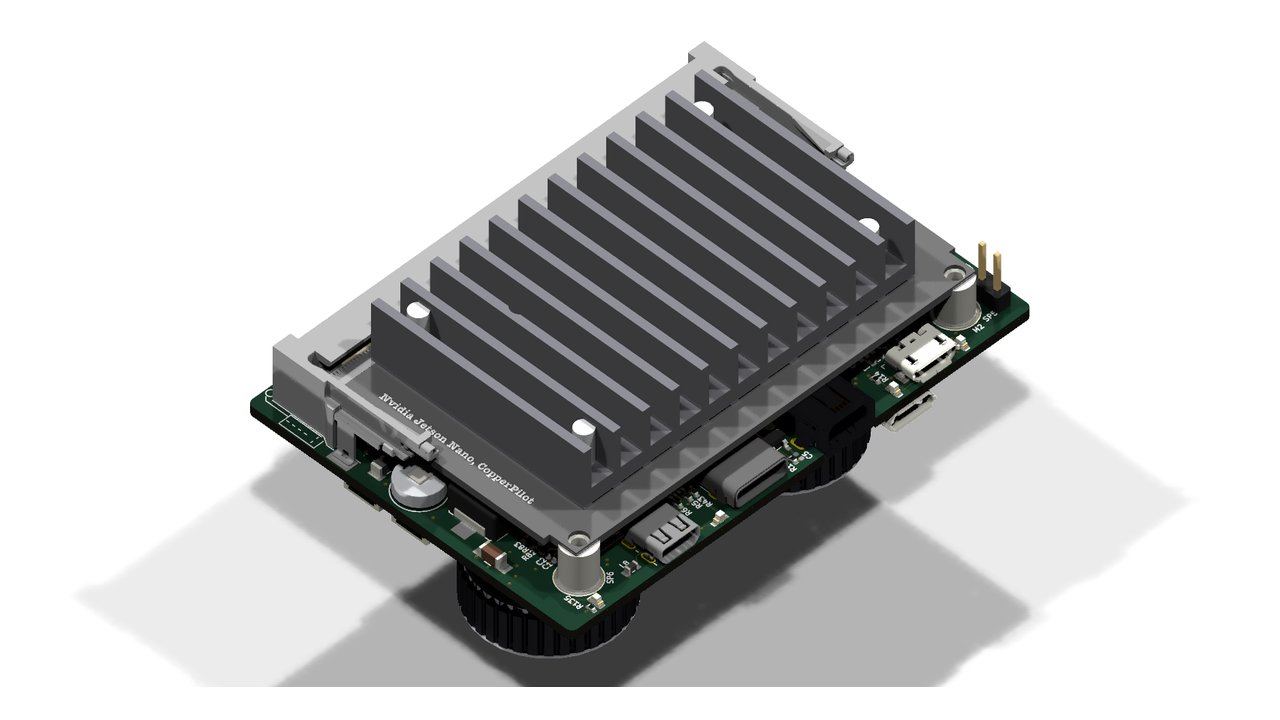
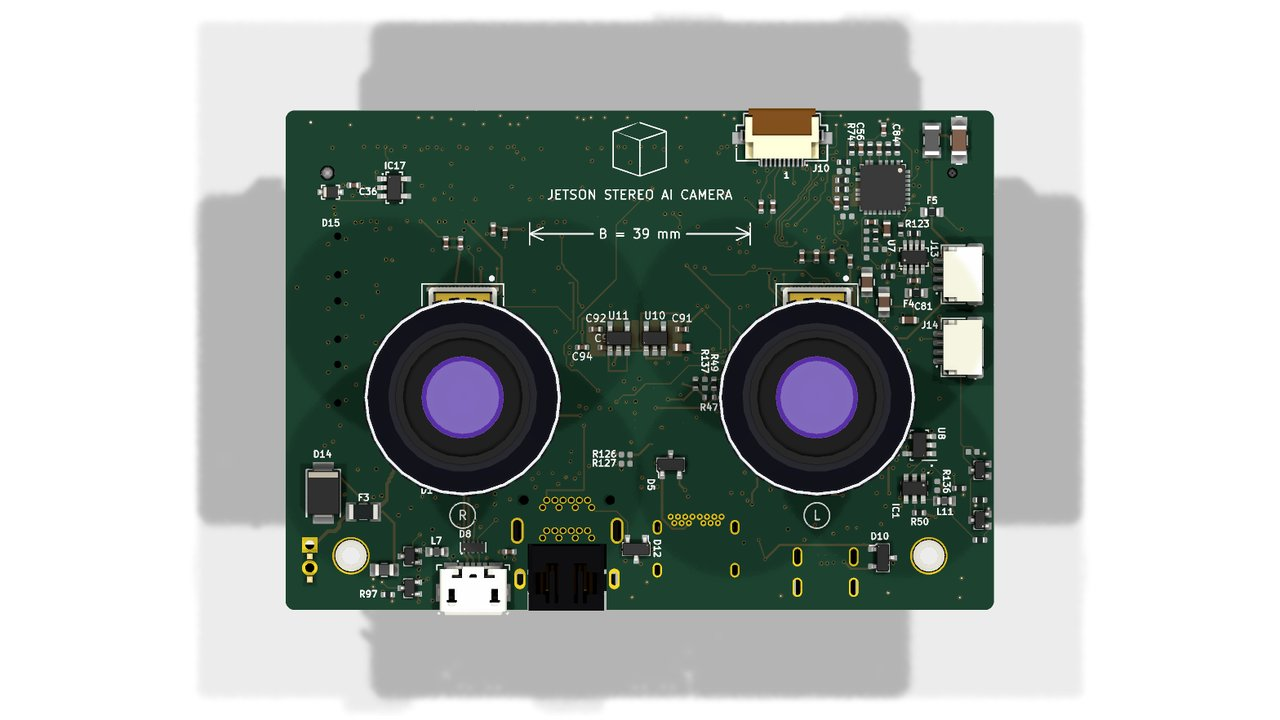
Use exploded-case GIF and camera-side Jetson render
Show the retro handheld's case explosion animation, padded to 16:9 in its
own background color, and the Jetson board's camera side.

diff --git a/profile/README.md b/profile/README.md
@@ -44,13 +44,13 @@ Real boards, not demos. Clone them, open them in KiCad, send them to the fab.
   </tr>
   <tr>
     <td width="33%" valign="top">
-      <a href="https://github.com/CopperPilot/Jetson-AI-Cam-CopperPilot"><img src="https://raw.githubusercontent.com/CopperPilot/.github/main/profile/assets/oss-jetson-ai-camera.jpg" alt="Jetson stereo AI camera carrier board, 3D render"></a>
+      <a href="https://github.com/CopperPilot/Jetson-AI-Cam-CopperPilot"><img src="https://raw.githubusercontent.com/CopperPilot/.github/main/profile/assets/oss-jetson-ai-camera.jpg" alt="Jetson stereo AI camera carrier board, 3D render of the camera side"></a>
       <p><b><a href="https://github.com/CopperPilot/Jetson-AI-Cam-CopperPilot">Jetson Stereo AI Camera</a></b><br>
       A carrier for Jetson Nano, Xavier NX and TX2 NX with two IMX219 cameras on a 39 mm stereo baseline, dual 4K outputs and CAN. Inspired by <a href="https://github.com/antmicro/jetson-nano-baseboard">Antmicro's baseboard</a>.</p>
       <sub>KiCad 10 · 8-layer controlled impedance · JLCPCB-ready</sub>
     </td>
     <td width="33%" valign="top">
-      <a href="https://github.com/CopperPilot/copperpilot-retro-handheld"><img src="https://raw.githubusercontent.com/CopperPilot/.github/main/profile/assets/oss-retro-handheld.jpg" alt="ESP32-S3 retro handheld console PCB, 3D render"></a>
+      <a href="https://github.com/CopperPilot/copperpilot-retro-handheld"><img src="https://raw.githubusercontent.com/CopperPilot/.github/main/profile/assets/oss-retro-handheld.gif" alt="ESP32-S3 retro handheld console, exploded view of the case and board"></a>
       <p><b><a href="https://github.com/CopperPilot/copperpilot-retro-handheld">Retro Handheld</a></b><br>
       An ESP32-S3 game console on one 63 × 80 mm board. 2.4" TFT, 14 buttons, USB-C charging that keeps you playing, and a snap-fit case to print.</p>
       <sub>KiCad 10 · 4-layer · enclosure STLs · Lion Circuits-ready</sub>
